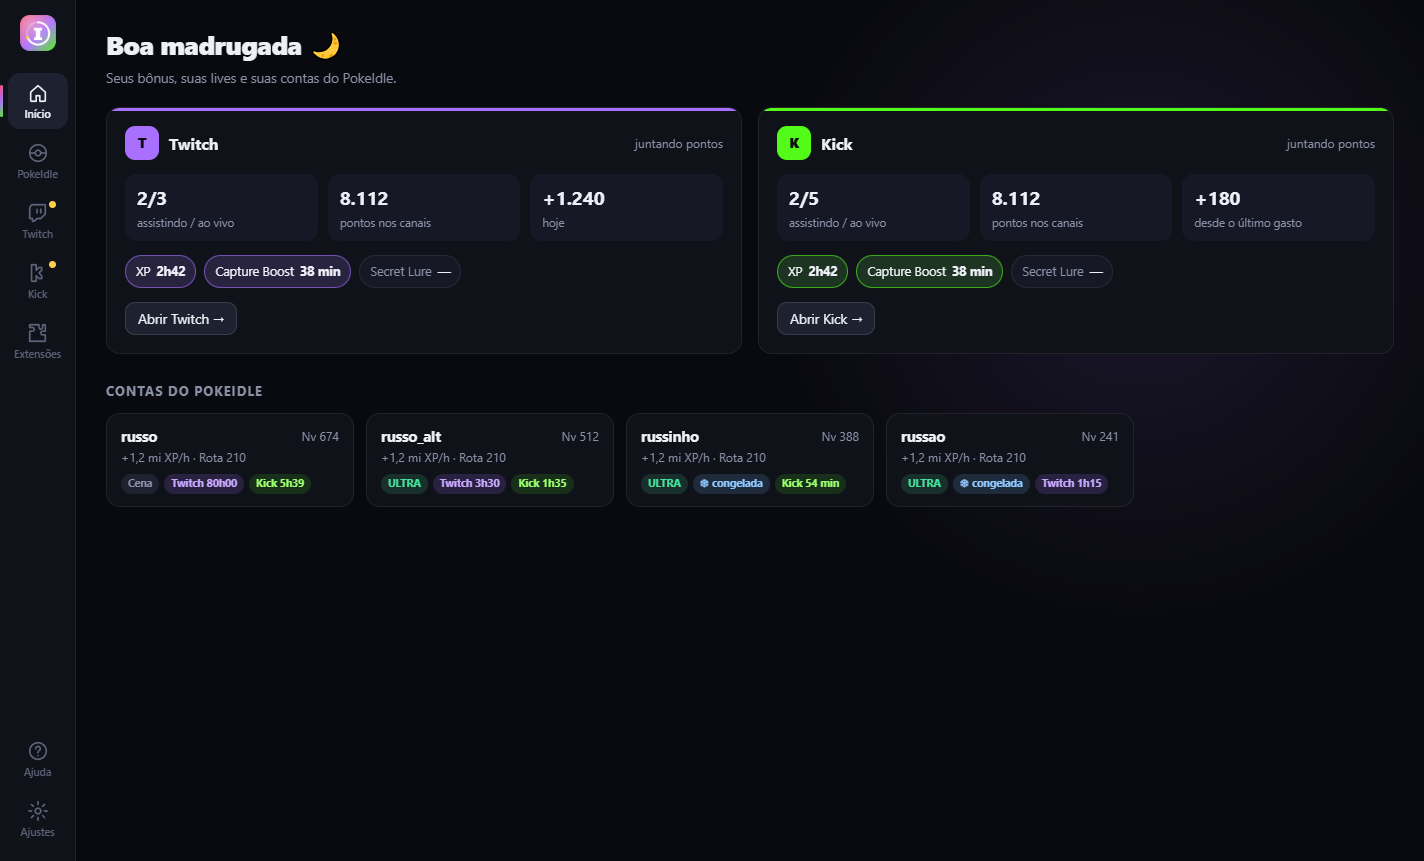
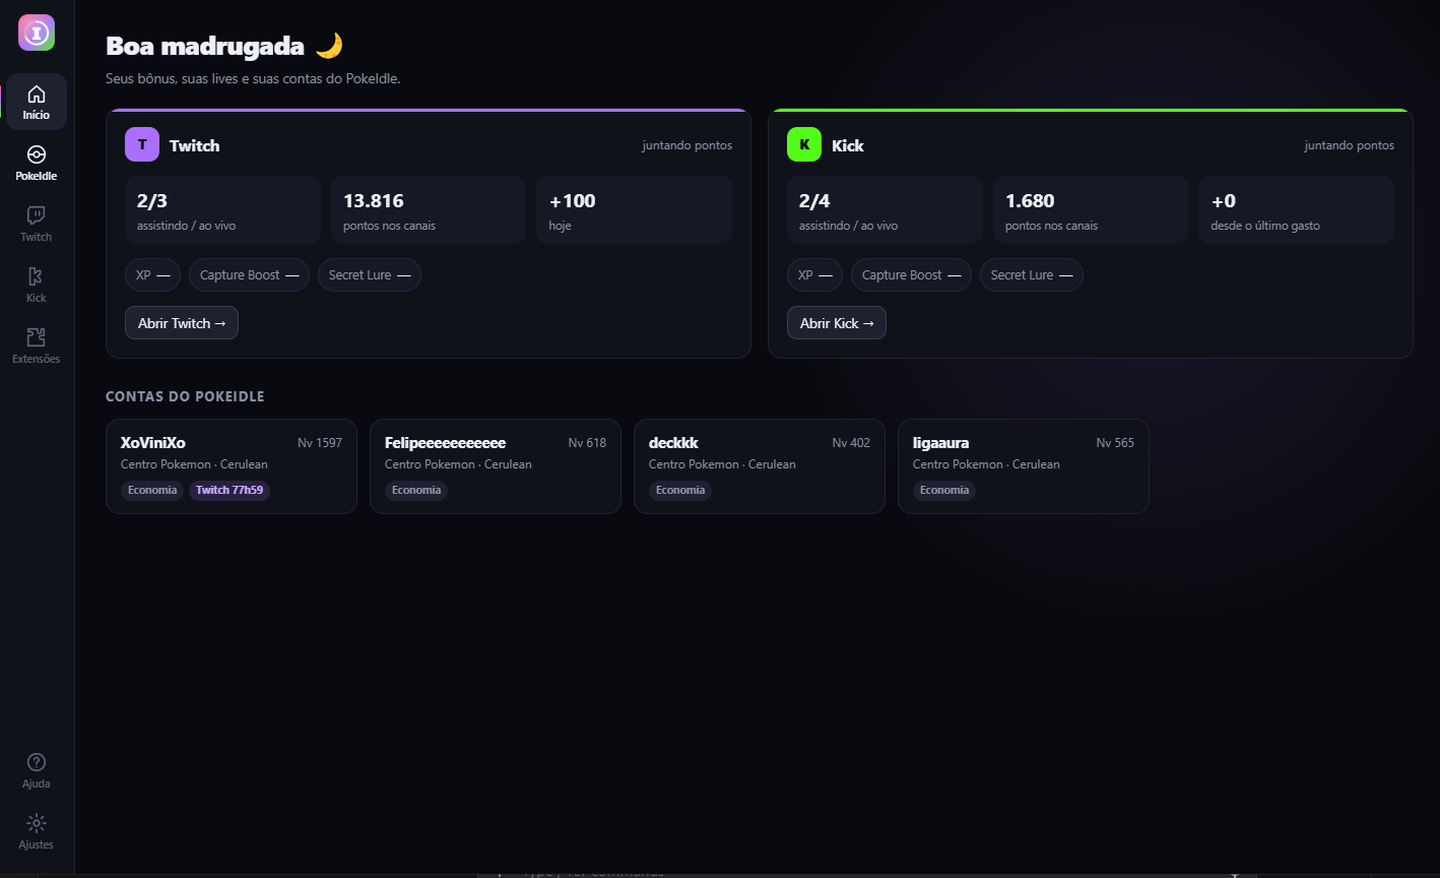
Print do site com as contas do autor

diff --git a/docs/index.html b/docs/index.html
@@ -34,7 +34,7 @@
         <a class="btn" href="https://github.com/ViinniSantoos/idleterino/releases/latest/download/Idleterino-linux.deb">🐧 Linux (.deb)</a>
       </div>
       <p class="note">Grátis e de código aberto · Windows 10/11 ou Linux 64 bits · <a href="https://github.com/ViinniSantoos/idleterino/releases">Todas as versões</a></p>
-      <img class="shot" src="app.png" alt="Tela do Idleterino com as contas do PokeIdle e os pontos da Twitch e da Kick" width="1440" height="900">
+      <img class="shot" src="app.png" alt="Tela do Idleterino com as contas do PokeIdle e os pontos da Twitch e da Kick" width="1440" height="878">
     </section>
 
     <section id="recursos" class="wrap">
